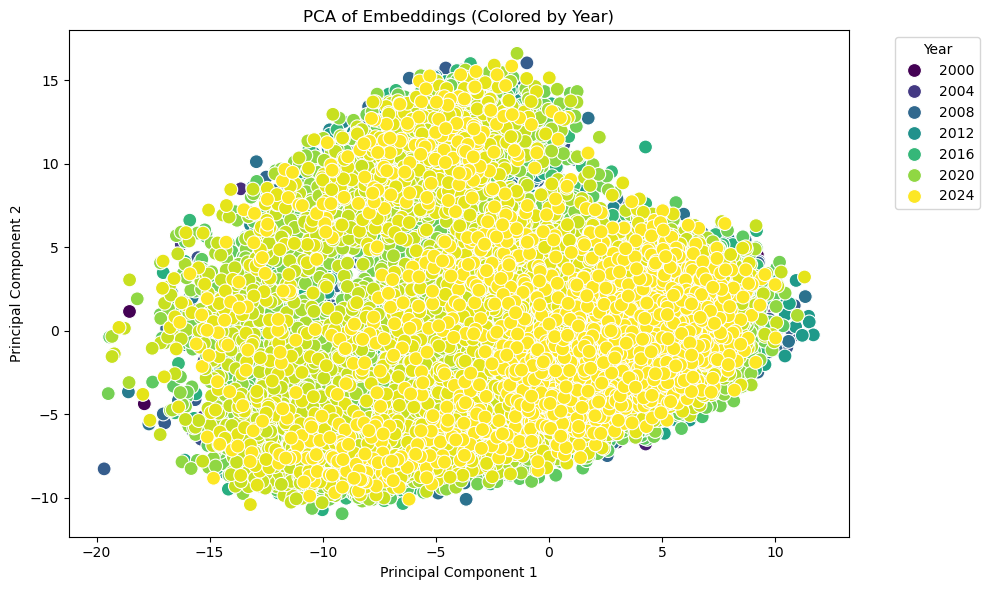
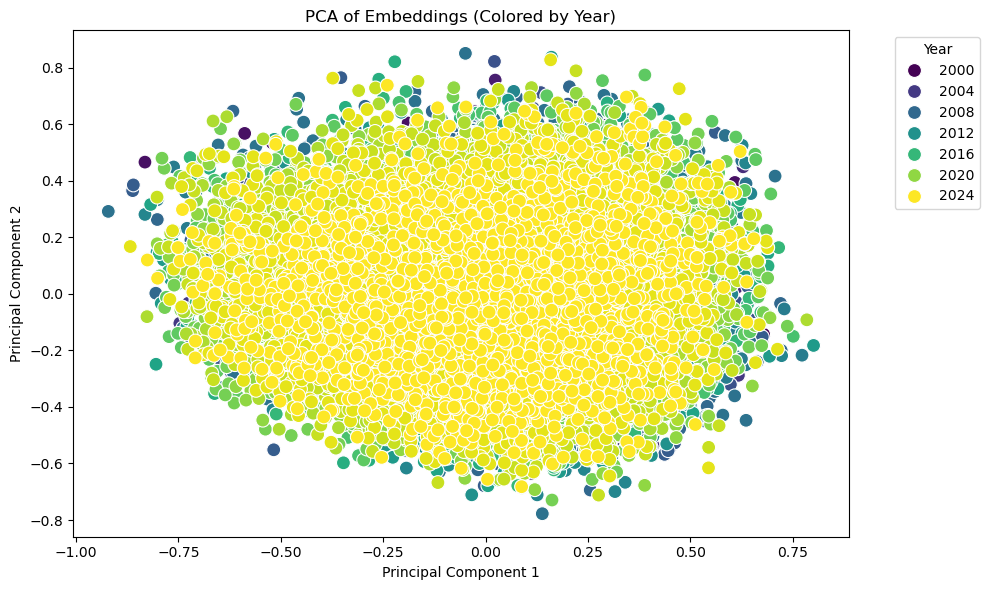
Sentence embedding script

diff --git a/notebooks/PCA_and_Plot.py b/notebooks/PCA_and_Plot.py
@@ -1,7 +1,14 @@
 #%%
 import pandas as pd
+import seaborn as sns
+import matplotlib.pyplot as plt
+
+
+#%%
 # read csv file
-read_csv = pd.read_csv('../data/embeddingsDanishBertBotxo_Klima.csv')
+# df = pd.read_csv('../data/embeddings/DanishBertBotxo_Klima.csv')
+# df = pd.read_csv('../data/embeddings/Instructor_Klima.csv')
+df = pd.read_csv('../data/embeddings/Sentence_Klima.csv')
 # %%
 # Perform PCA on the embeddings and polot first two components
 # Select embeddings
@@ -30,32 +37,27 @@ pca_df_sorted = pca_df.sort_values(by=['Year']).reset_index(drop=True)
 # Show the result
 pca_df_sorted
 
+
+
+
 # %%
-# Plot the average PCA results by year
-# Create the plot
+### Plot the average PCA results by year ### 
+# Group by Year and compute mean PC1 and PC2
+mean_pca_by_year = pca_df_sorted.groupby('Year')[['PC1', 'PC2']].mean().reset_index()
+
+# Plot
 plt.figure(figsize=(10, 6))
+sns.scatterplot(data=mean_pca_by_year, x='PC1', y='PC2', hue='Year', palette='viridis', s=150)
 
-# Plot the first two PCA dimensions (PC1 vs PC2), coloring by 'Year'
-sns.scatterplot(x=pca_df_sorted['PC1'], y=pca_df_sorted['PC2'], hue=pca_df_sorted['Year'], palette='viridis', s=100)
-
-# Add labels and title
-plt.xlabel('Principal Component 1')
-plt.ylabel('Principal Component 2')
-plt.title('PCA of Embeddings (Colored by Year)')
+# Labels and title
+plt.xlabel('Mean Principal Component 1')
+plt.ylabel('Mean Principal Component 2')
+plt.title('Mean PCA Embedding per Year')
 plt.legend(title='Year', bbox_to_anchor=(1.05, 1), loc='upper left')
-
-# Show the plot
 plt.tight_layout()
-plt.savefig('pca_plot.png', bbox_inches='tight')
 plt.show()
 
-
-
-
-# %%
-
-### Plot the average PCA results by year ### 
-
+#%%
 # Group by Year and compute mean PC1 and PC2
 mean_pca_by_year = pca_df_sorted.groupby('Year')[['PC1', 'PC2']].mean().reset_index()
 
@@ -76,6 +78,44 @@ plt.tight_layout()
 plt.show()
 
 # %%
+# Calculate rolling window means (5-year window)
+rolling_means = []
+years = sorted(pca_df_sorted['Year'].unique())
+
+for i in range(len(years) - 4):  # -4 to ensure we have 5 years for each window
+    window_years = years[i:i+5]
+    window_data = pca_df_sorted[pca_df_sorted['Year'].isin(window_years)]
+    mean_pc1 = window_data['PC1'].mean()
+    mean_pc2 = window_data['PC2'].mean()
+    rolling_means.append({
+        'Years': f"{window_years[0]}-{window_years[-1]}",
+        'PC1': mean_pc1,
+        'PC2': mean_pc2
+    })
+
+rolling_df = pd.DataFrame(rolling_means)
+
+# Create plot with both individual years and rolling means
+plt.figure(figsize=(12, 8))
+
+# Plot individual years
+sns.scatterplot(data=mean_pca_by_year, x='PC1', y='PC2', 
+                hue='Year', palette='viridis', s=150)
+
+# Plot rolling means line
+plt.plot(rolling_df['PC1'], rolling_df['PC2'], 
+         'r-', linewidth=2, label='5-year rolling mean')
+
+# Add annotations
+# for _, row in mean_pca_by_year.iterrows():
+#    plt.text(row['PC1'] + 0.01, row['PC2'], str(row['Year']), fontsize=10)
+
+plt.xlabel('Principal Component 1')
+plt.ylabel('Principal Component 2')
+plt.title('PCA Embedding: Yearly Means with 5-Year Rolling Average')
+plt.legend(bbox_to_anchor=(1.05, 1), loc='upper left')
+plt.tight_layout()
+plt.show()
 
 
 

diff --git a/notebooks/sentence_embedding.py b/notebooks/sentence_embedding.py
@@ -49,13 +49,11 @@ filtered_df = df[df['sentence'].str.contains('klima', case=False, na=False)]
 filtered_df.head()
 
 # %%
-# Initialize the INSTRUCTOR model
-model_name = "intfloat/multilingual-e5-small"
+# Initialize the SENTENCE EMBEDDER model
+model_name = "sentence-transformers/paraphrase-multilingual-mpnet-base-v2"
 tokenizer = AutoTokenizer.from_pretrained(model_name)
 model = AutoModel.from_pretrained(model_name)
 
-# Embedding instruction (Danish)
-instruction = "Beskriv hvilken mening ordet klima har i denne tekst"
 
 # %%
 # Generate sentence embeddings
@@ -67,7 +65,7 @@ for _, row in tqdm(filtered_df.iterrows(), total=len(filtered_df), desc="Embeddi
     year = row['year']
 
     # Format input for INSTRUCTOR model
-    model_input = [[f"query: {instruction}", f"passage: {sentence}"]]
+    model_input = [sentence]
     inputs = tokenizer(model_input, padding=True, truncation=True, max_length=512, return_tensors="pt")
 
     with torch.no_grad():
@@ -87,5 +85,4 @@ embedding_df = pd.DataFrame(embedding_rows)
 
 save_embeddings = True
 if save_embeddings:
-    embedding_df.to_csv('../data/embeddings/Instructor_Klima.csv', index=False)
-# %%
+    embedding_df.to_csv('../data/embeddings/Sentence_Klima.csv', index=False)
